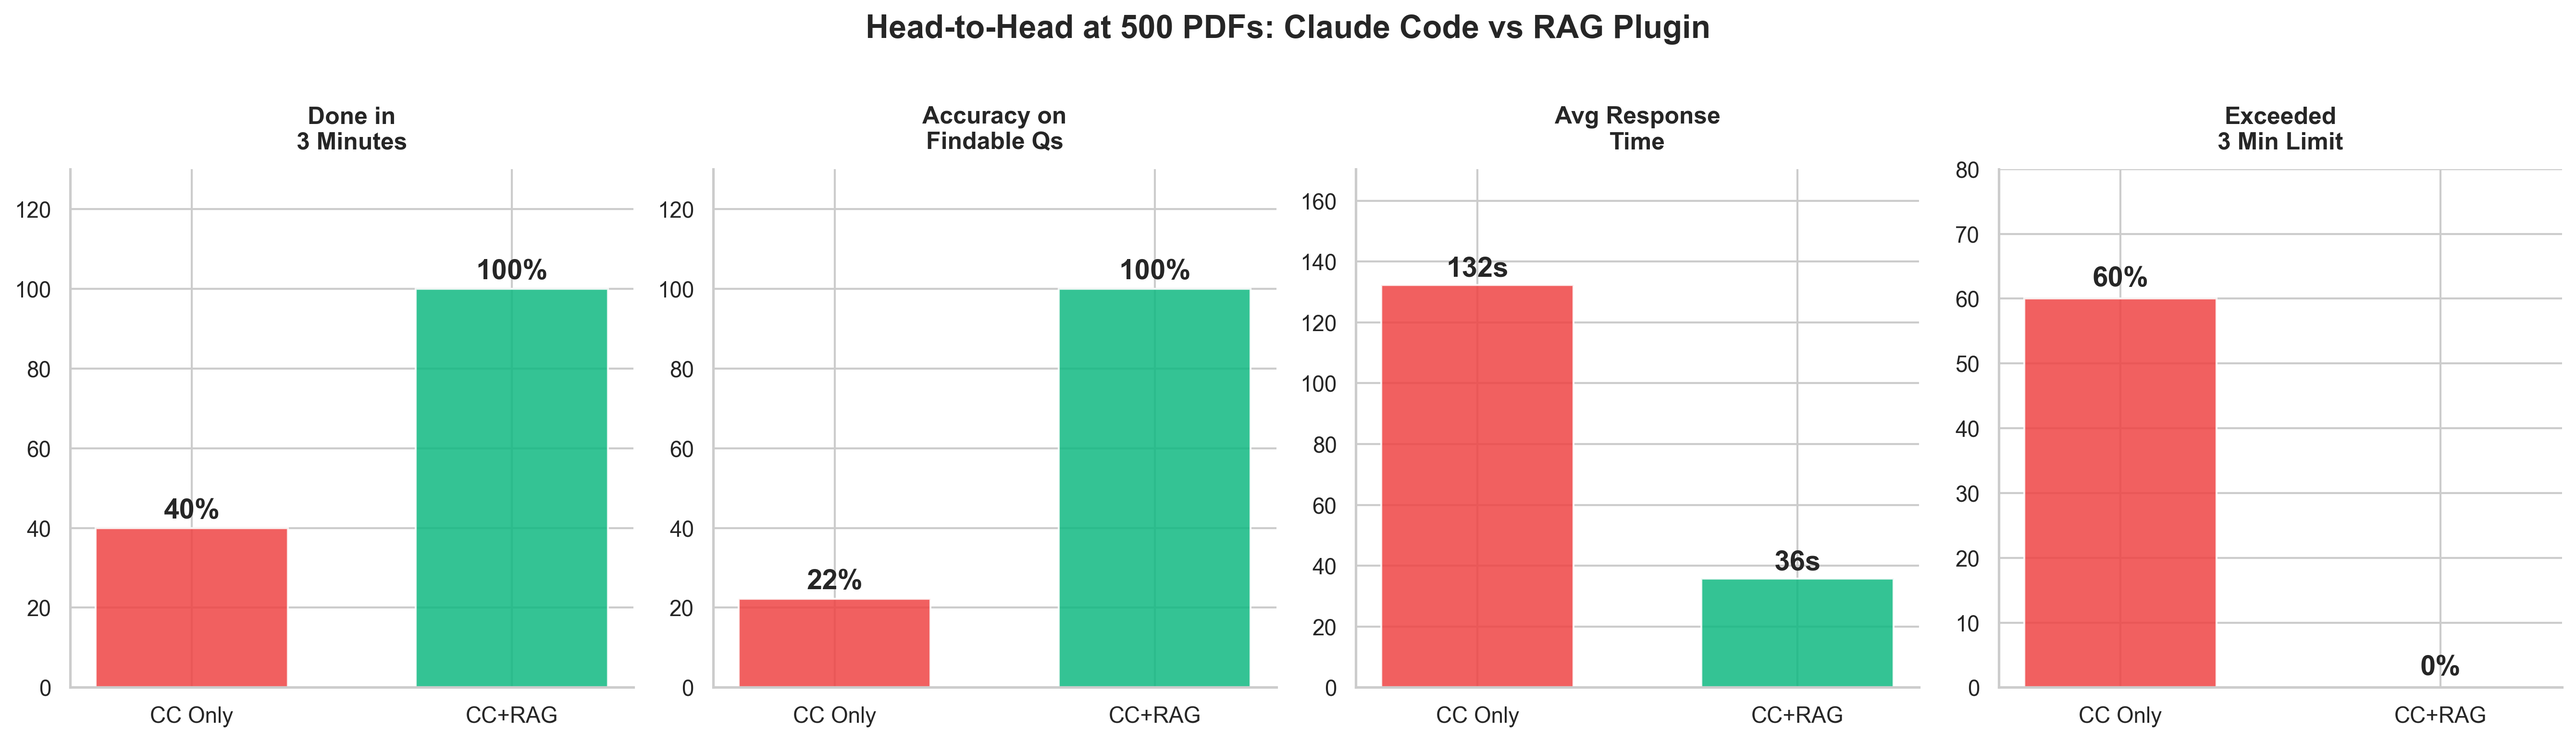
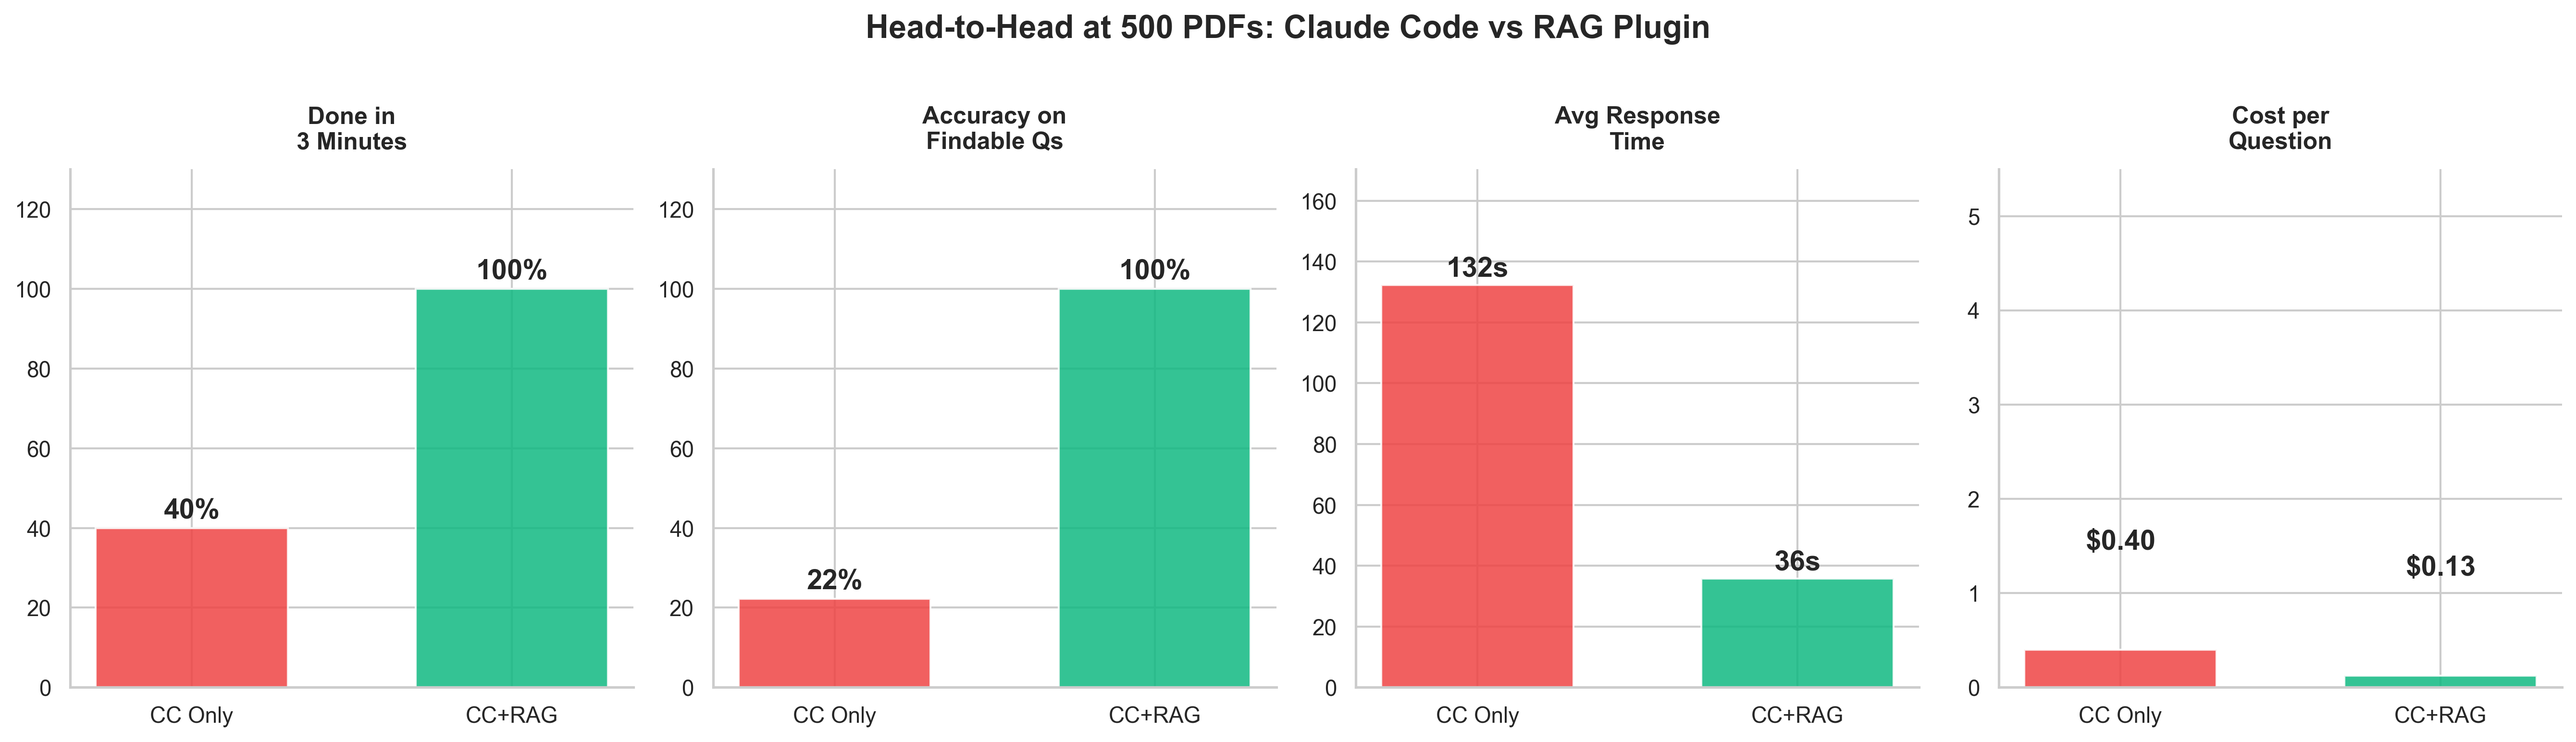
fix: replace redundant timeout panel with cost per question in head-to-head chart
Done-in-3-min and exceeded-3-min were inverses of each other.
Replaced the exceeded panel with Cost per Question ($0.40 vs $0.13).

diff --git a/report_pdf_v2.py b/report_pdf_v2.py
@@ -434,7 +434,7 @@ def chart_head_to_head(cc_500, rag_stats, charts_dir, dpi=300):
         ("Accuracy on\nFindable Qs", cc_500["findable_accuracy"] * 100,
          rag_stats["findable_accuracy"] * 100, "%"),
         ("Avg Response\nTime", cc_500["avg_time"], rag_stats["avg_time"], "s"),
-        ("Exceeded\n3 Min Limit", cc_500["timeout_rate"] * 100, 0, "%"),
+        ("Cost per\nQuestion", 0.40, rag_stats["avg_cost"], "$"),
     ]
 
     for ax, (label, cc_val, rag_val, unit) in zip(axes, metrics):
@@ -445,7 +445,10 @@ def chart_head_to_head(cc_500, rag_stats, charts_dir, dpi=300):
 
         bars = ax.bar(x, vals, color=colors, alpha=0.85, width=0.6)
         for bar, val in zip(bars, vals):
-            fmt = f'{val:.0f}{unit}'
+            if unit == "$":
+                fmt = f'${val:.2f}'
+            else:
+                fmt = f'{val:.0f}{unit}'
             ax.text(bar.get_x() + bar.get_width()/2., bar.get_height() + 1,
                     fmt, ha='center', va='bottom', fontsize=14, fontweight='bold')
 
